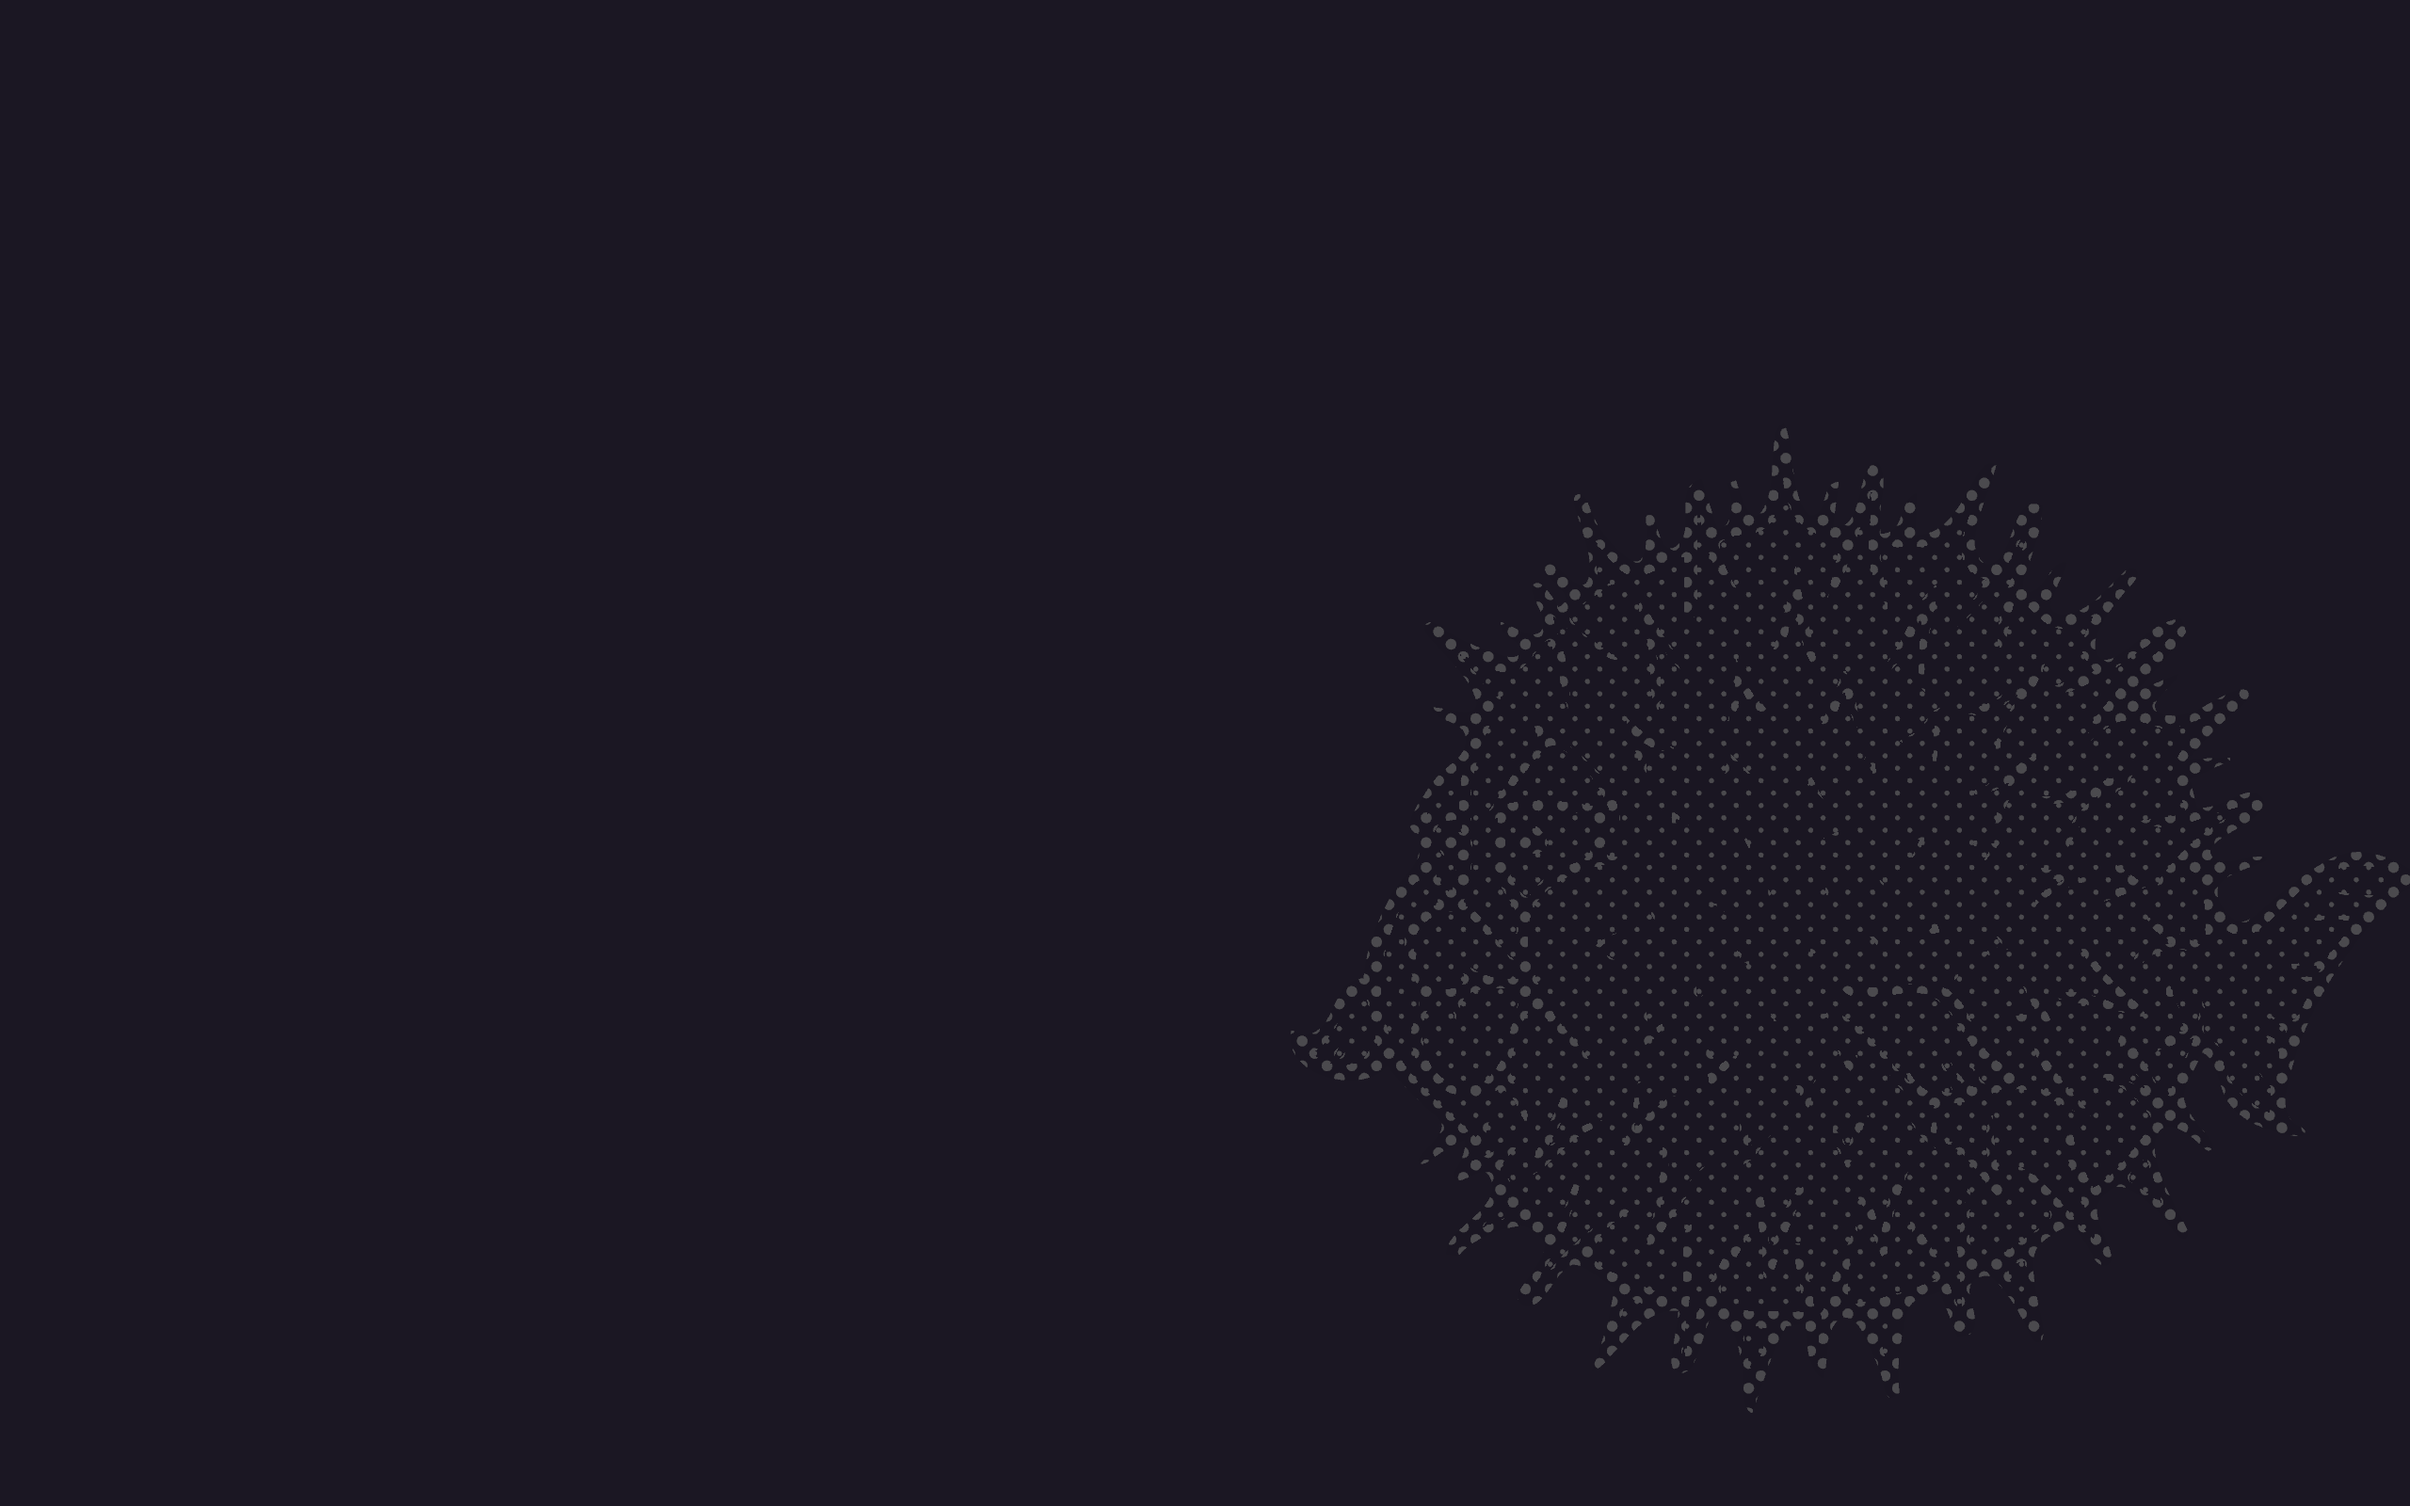
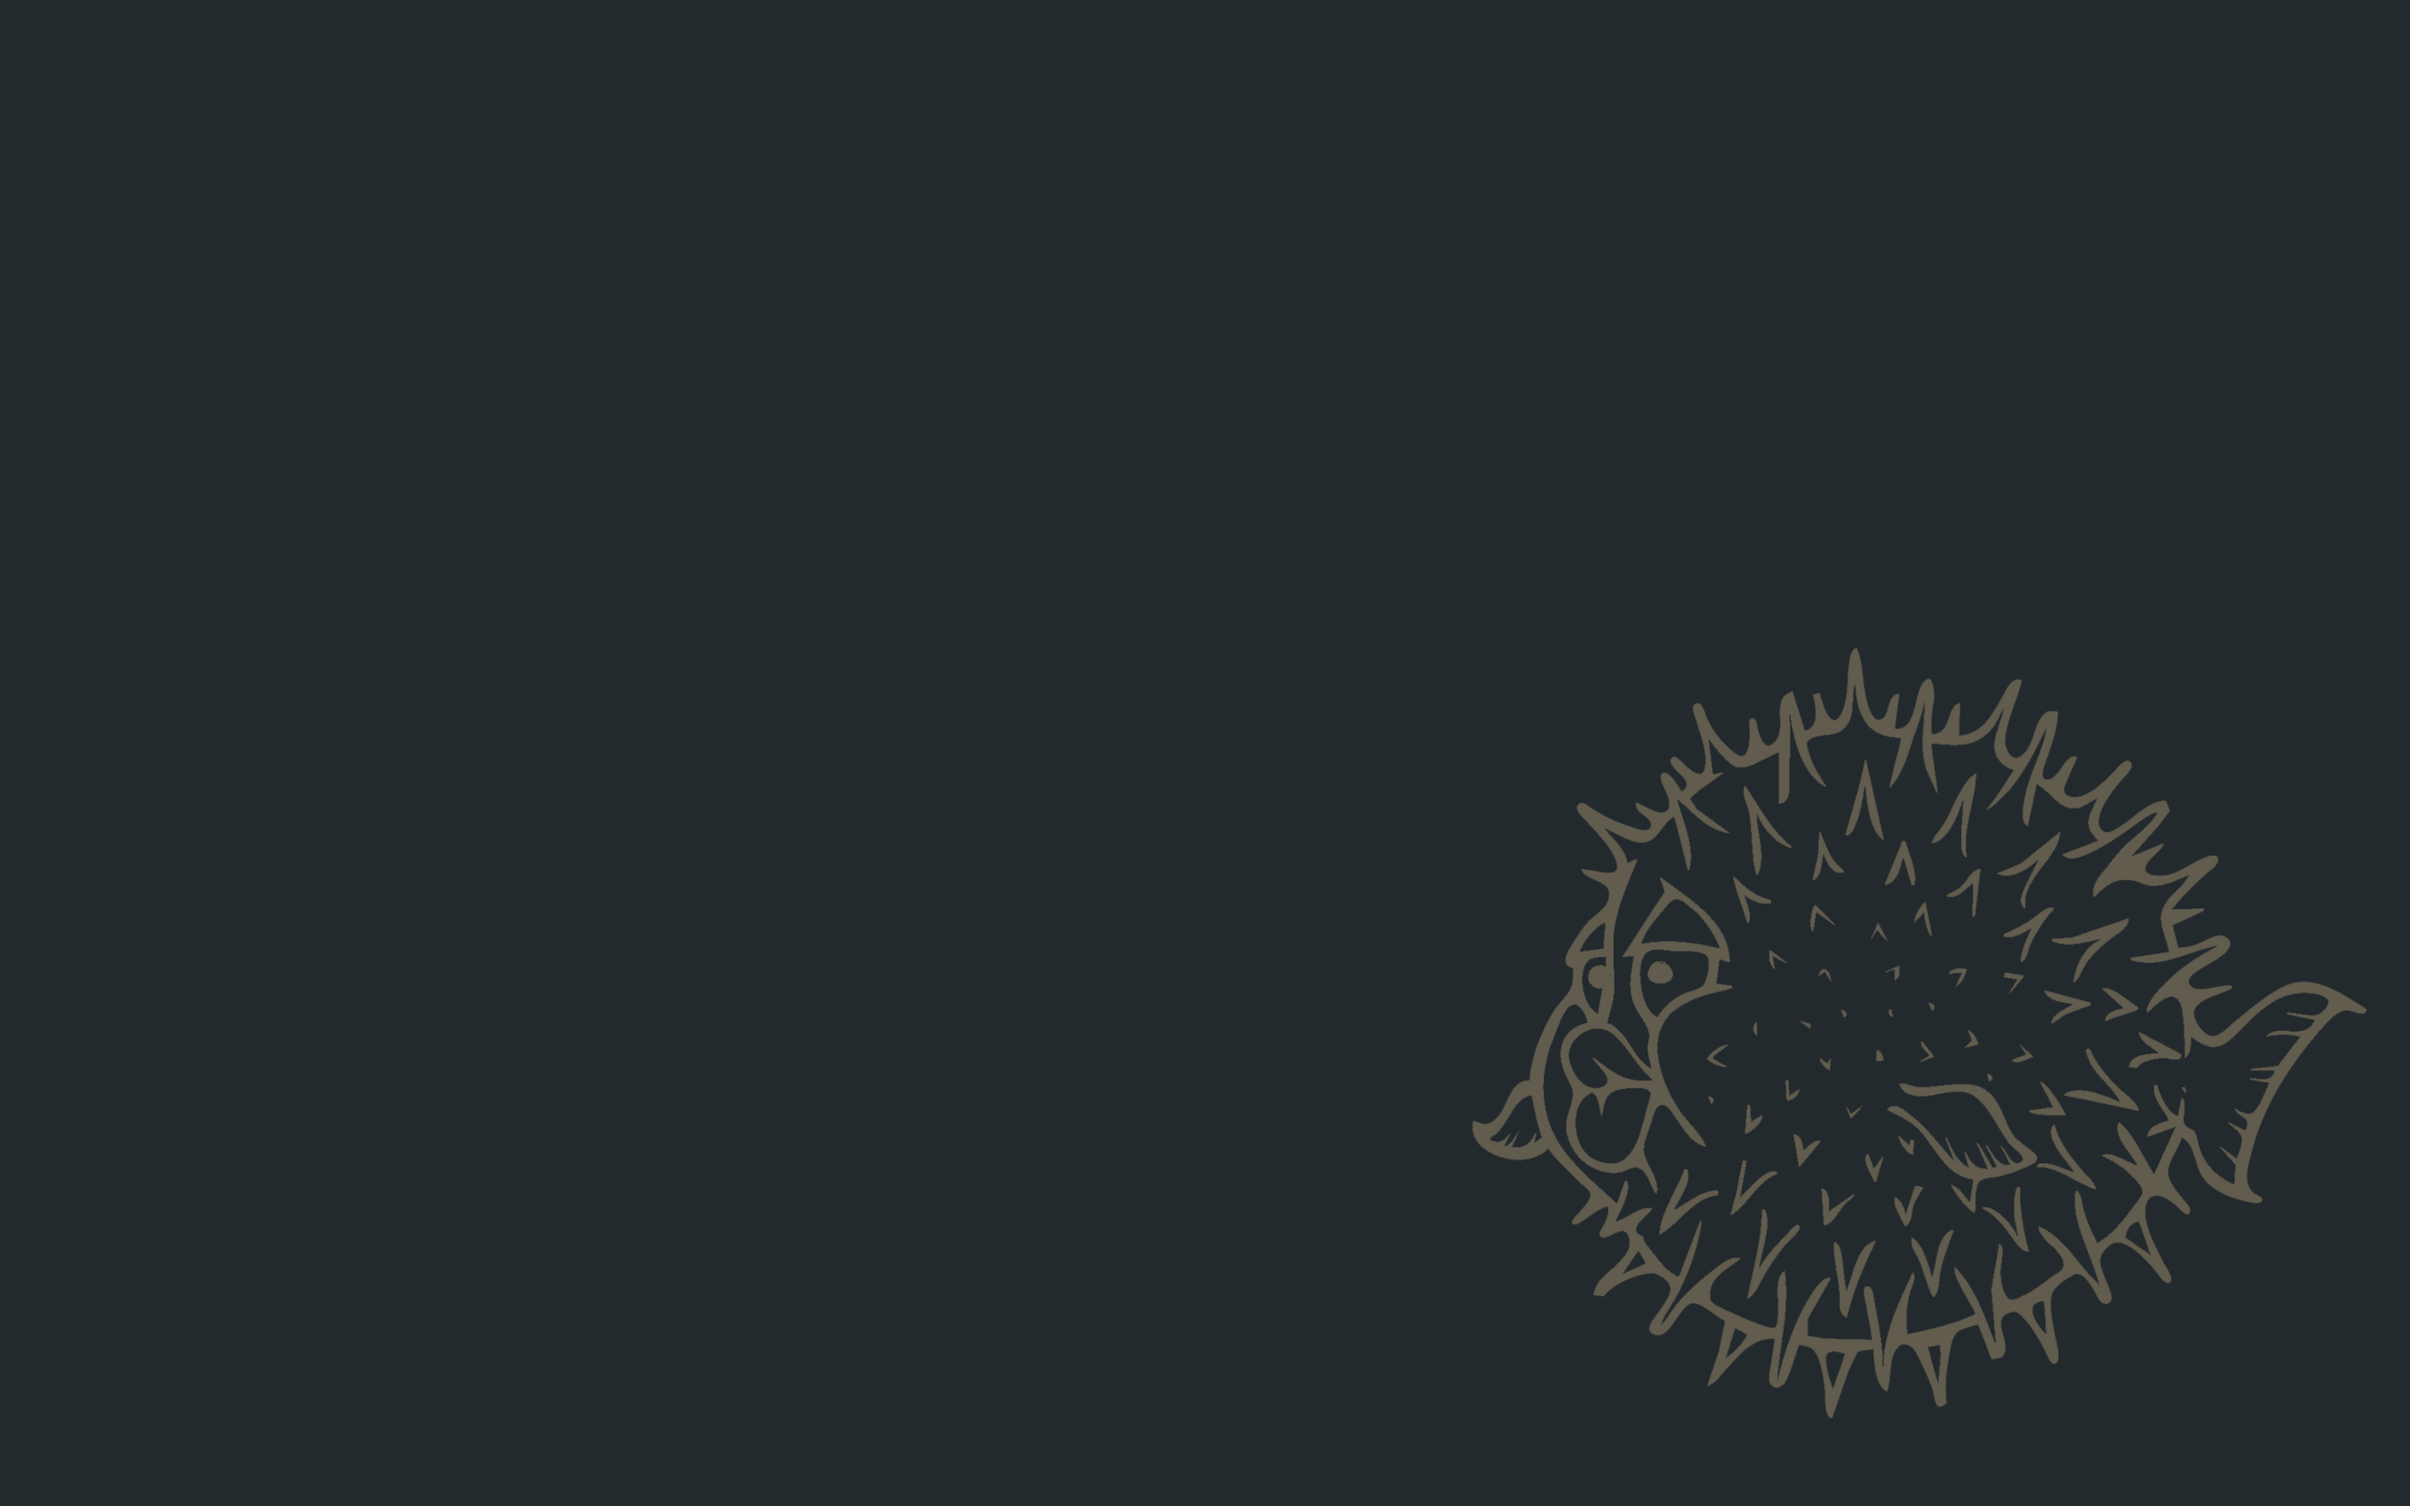
Fine-tune colors

Changed region(s): [[0.5312, 0.3125, 1.0, 0.9375], [0.9688, 0.5625, 1.0, 0.625]]

diff --git a/README.md b/README.md
@@ -2,6 +2,7 @@
 
 ![screenshot_01](.github/screenshots/01.webp)
 ![screenshot_02](.github/screenshots/02.webp)
+![screenshot_03](.github/screenshots/03.webp)
 
 Configuration is used on my workstation.
 
